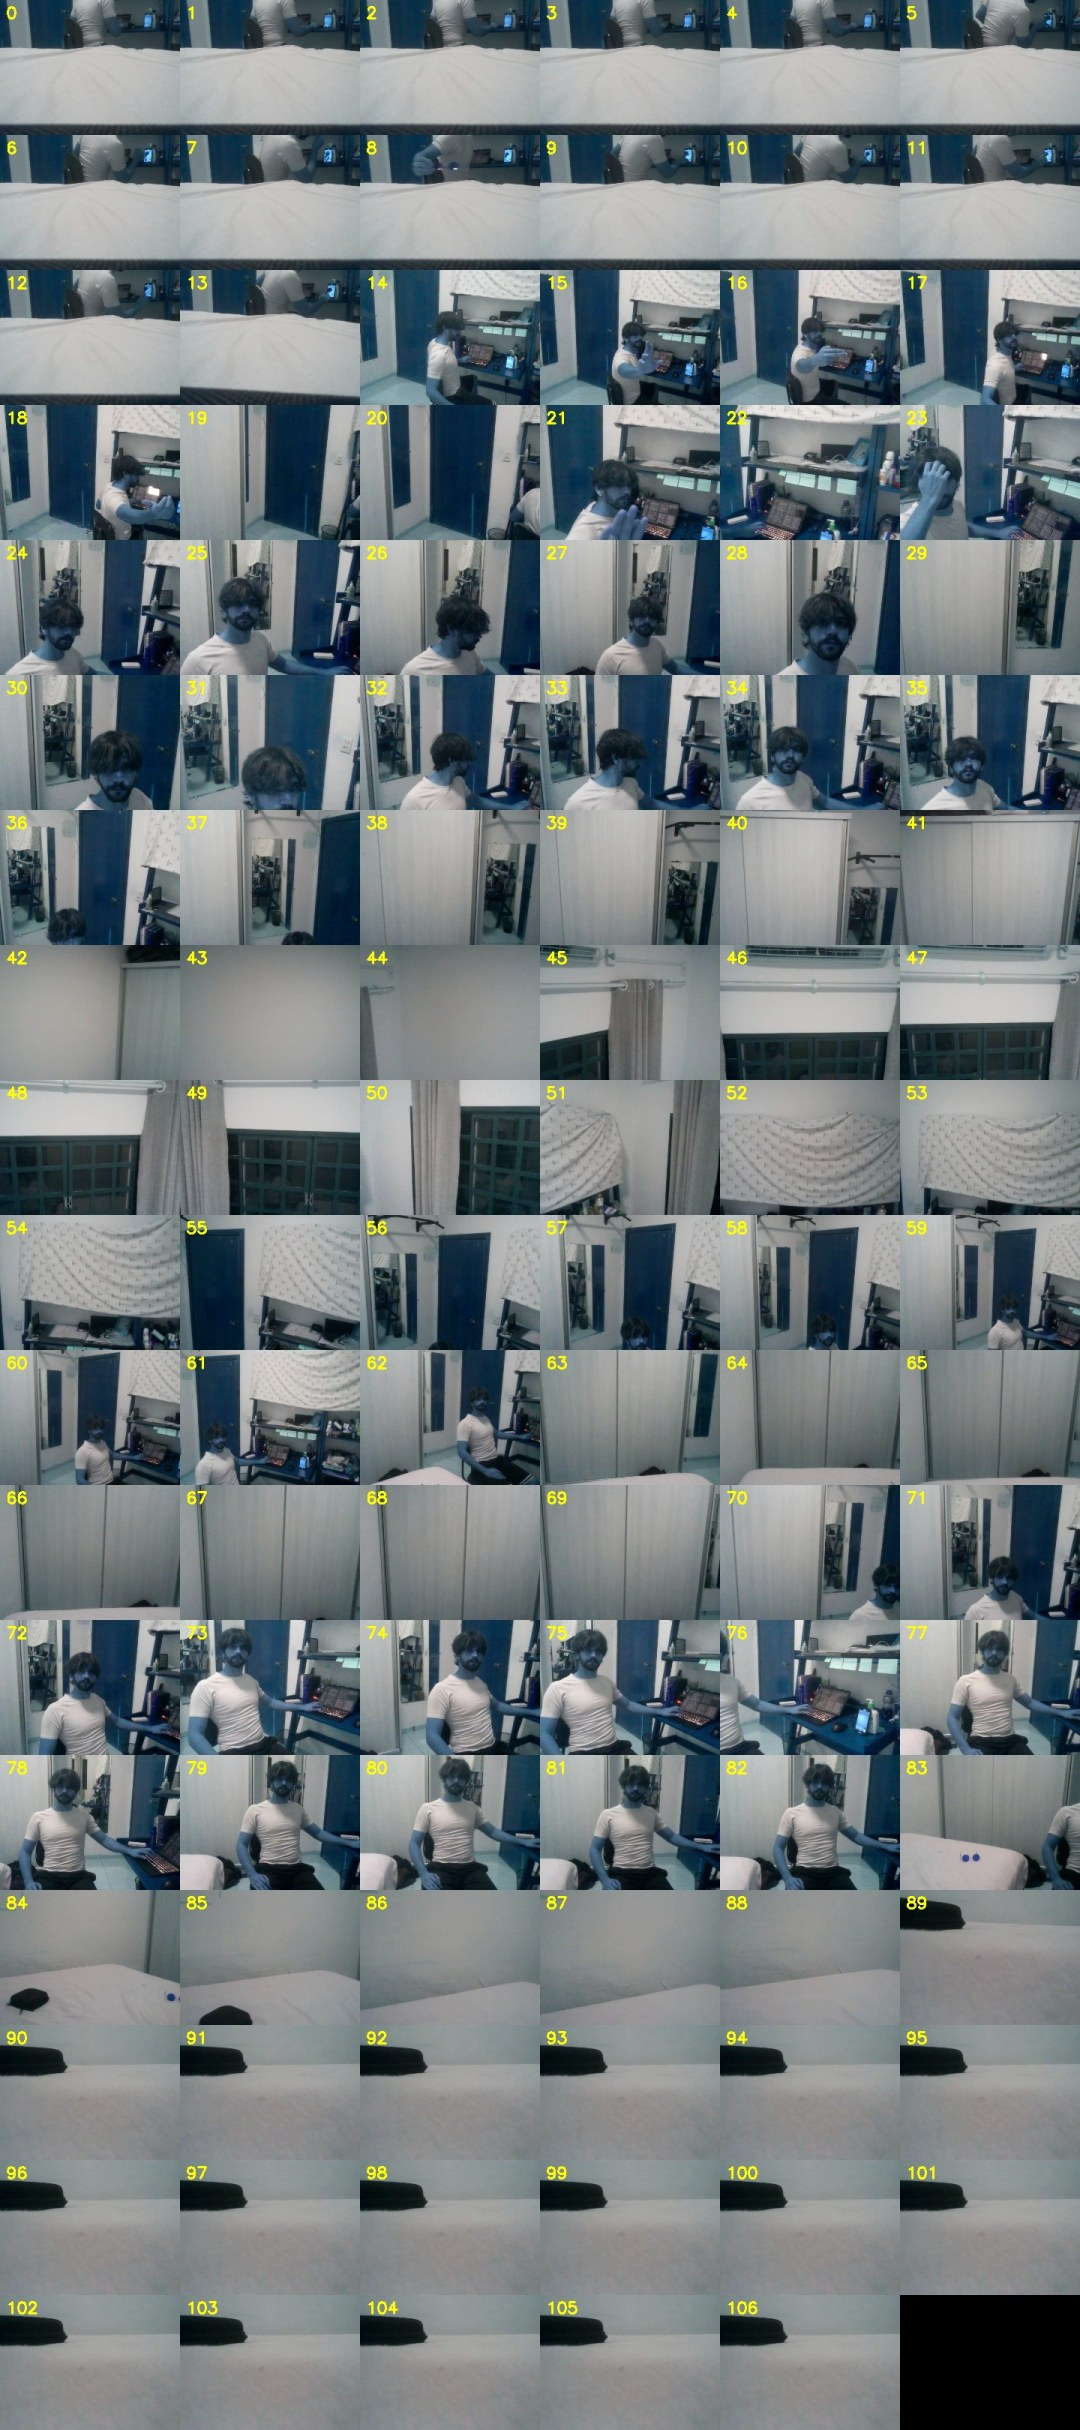
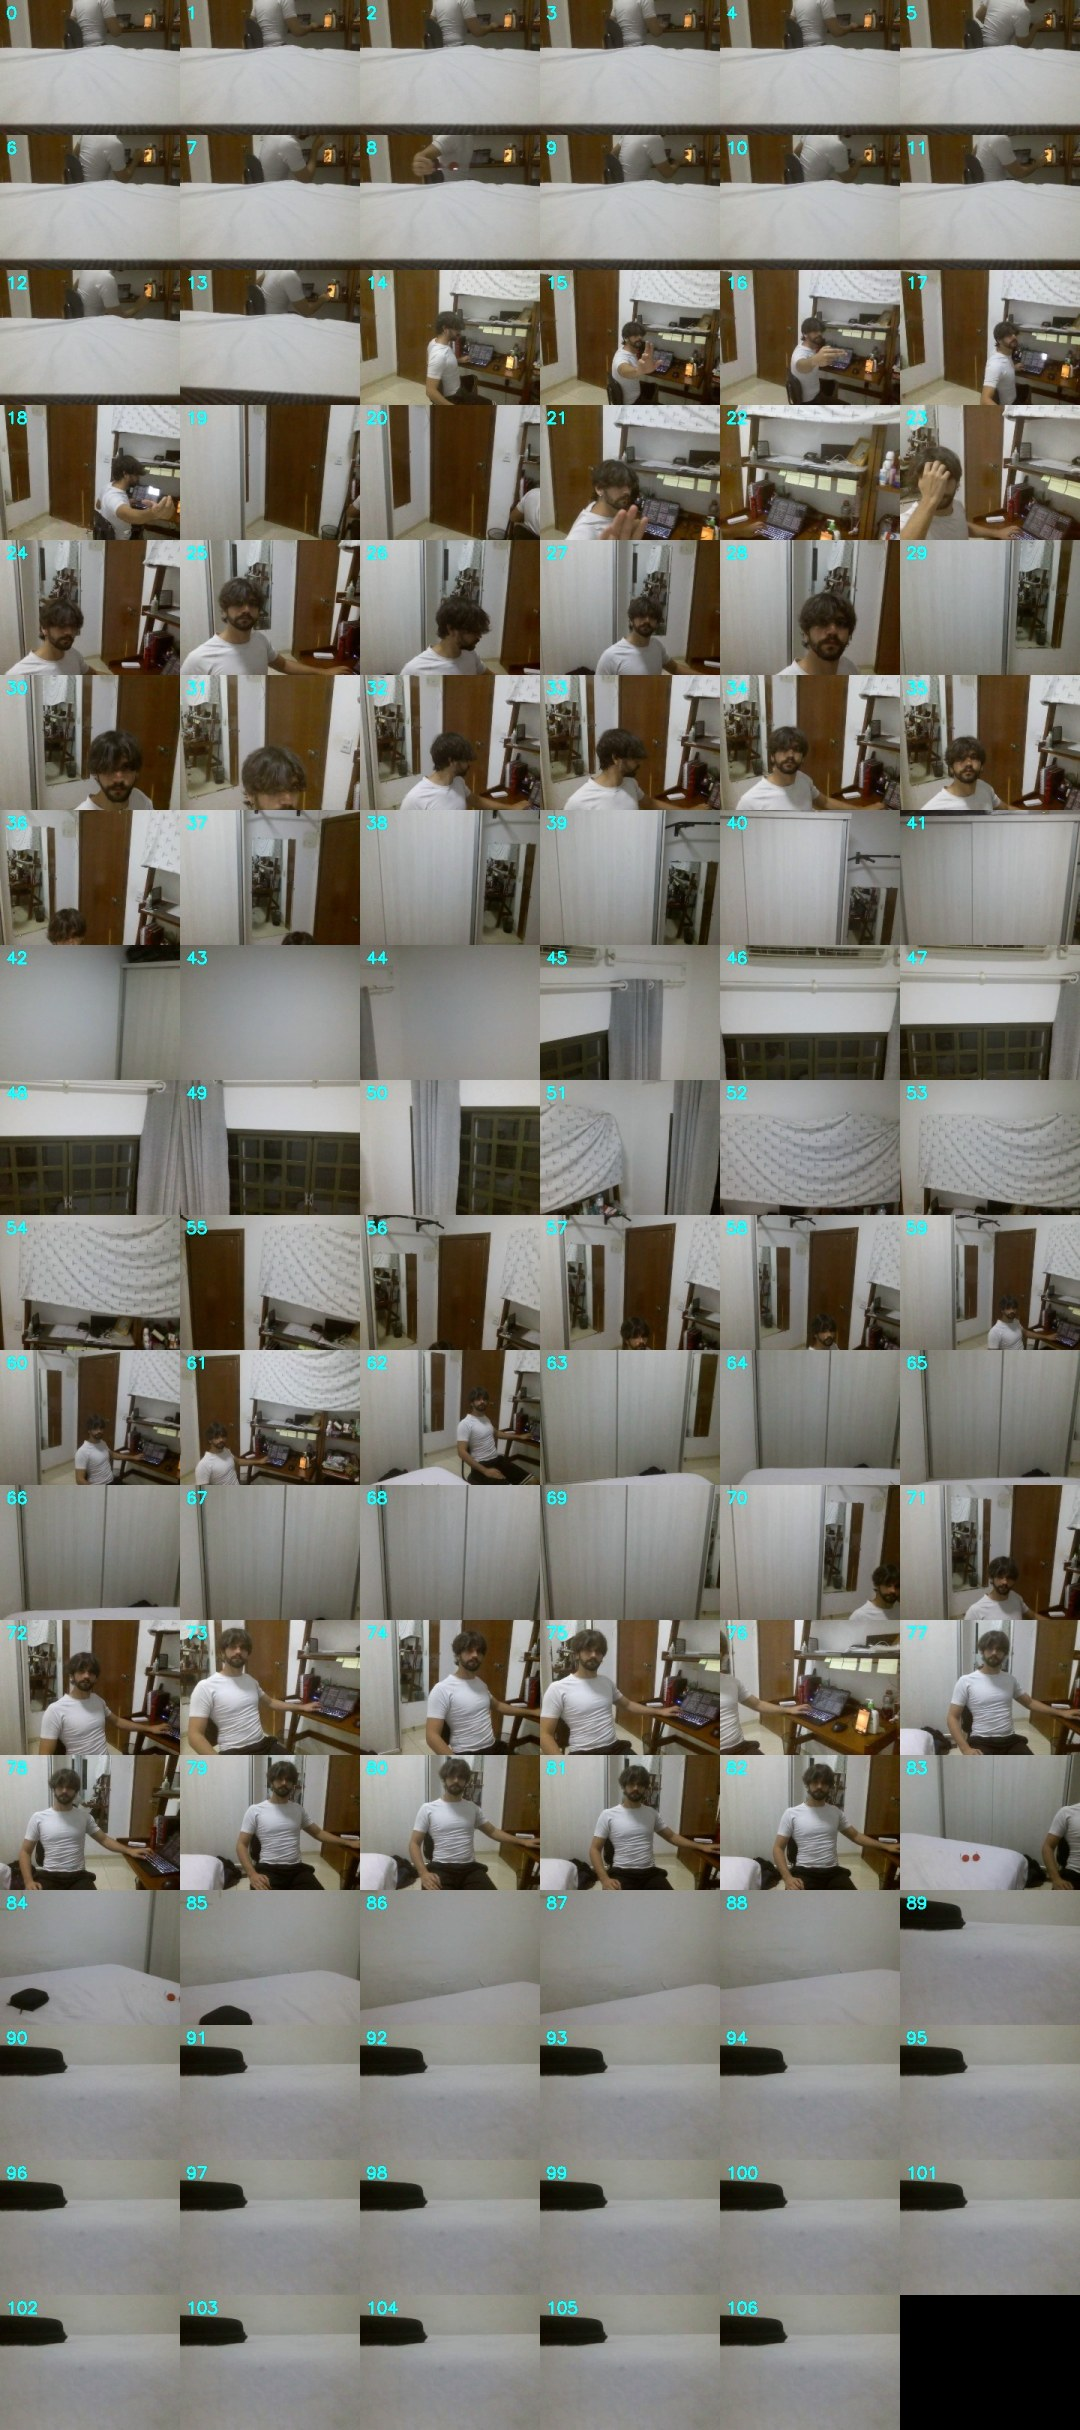
Session 11: fix blue-tinted video — djitellopy frames are RGB, convert to BGR before publishing
- confirmed by channel-swapping the existing voo_11 mosaic (no flight needed)
- bags voo_08..voo_11 contain R/B-swapped JPEGs; swap on consume (documented in DIARY)
- repo screenshots regenerated with correct colors

diff --git a/tello_ws/src/tello/tello/node.py b/tello_ws/src/tello/tello/node.py
@@ -283,7 +283,9 @@ class TelloNode():
                     self.node.get_logger().info(
                         f'Video: first frame received, shape={frame.shape}')
                 try:
-                    frame_bgr = numpy.array(frame)
+                    # djitellopy returns RGB frames; convert so 'bgr8' and the
+                    # JPEG encoder (both BGR-based) get what they expect
+                    frame_bgr = cv2.cvtColor(numpy.array(frame), cv2.COLOR_RGB2BGR)
                     msg = self.bridge.cv2_to_imgmsg(frame_bgr, 'bgr8')
                     msg.header.stamp = self.node.get_clock().now().to_msg()
                     msg.header.frame_id = self.tf_drone

diff --git a/DIARY.md b/DIARY.md
@@ -1611,3 +1611,30 @@ Contact sheet do voo completo (107 frames, 1 por 2 s de voo):
 ### Próximo — tech validation restante
 1. TEST 5 — calibração (checkerboard 8×6, 25 mm, impresso em escala 100%)
 2. rtabmap offline contra voo_11 (após calibração) — posição de verdade
+
+---
+
+## Session 11 — Fix das cores azuladas (RGB↔BGR) ✅ (2026-07-08, sem drone)
+
+### Sintoma
+Todos os mosaicos e frames saíam azulados (pele azul, porta de madeira azul).
+
+### Root cause
+O djitellopy retorna frames em **RGB**, mas o driver publicava o array direto
+como `bgr8` e codificava JPEG com `cv2.imencode` (que assume BGR) — canais
+R e B trocados em tudo que saía do driver.
+
+**Confirmação sem voo:** trocar os canais do mosaico voo_11 existente
+(`img[:, :, ::-1]`) devolveu as cores corretas (porta marrom, parede branca).
+
+### Fix aplicado
+`tello_ws/src/tello/tello/node.py` — conversão explícita antes de publicar:
+```python
+frame_bgr = cv2.cvtColor(numpy.array(frame), cv2.COLOR_RGB2BGR)
+```
+Rebuildado. A partir do voo_12 as cores são corretas na origem.
+
+### ⚠️ Bags antigos (voo_08 a voo_11)
+Os JPEGs dentro desses bags continuam com R/B trocados. Ao consumir esses
+bags, trocar canais após o decode: `img = img[:, :, ::-1]`.
+Os mosaicos e screenshots do repo já foram regenerados com cores corretas.